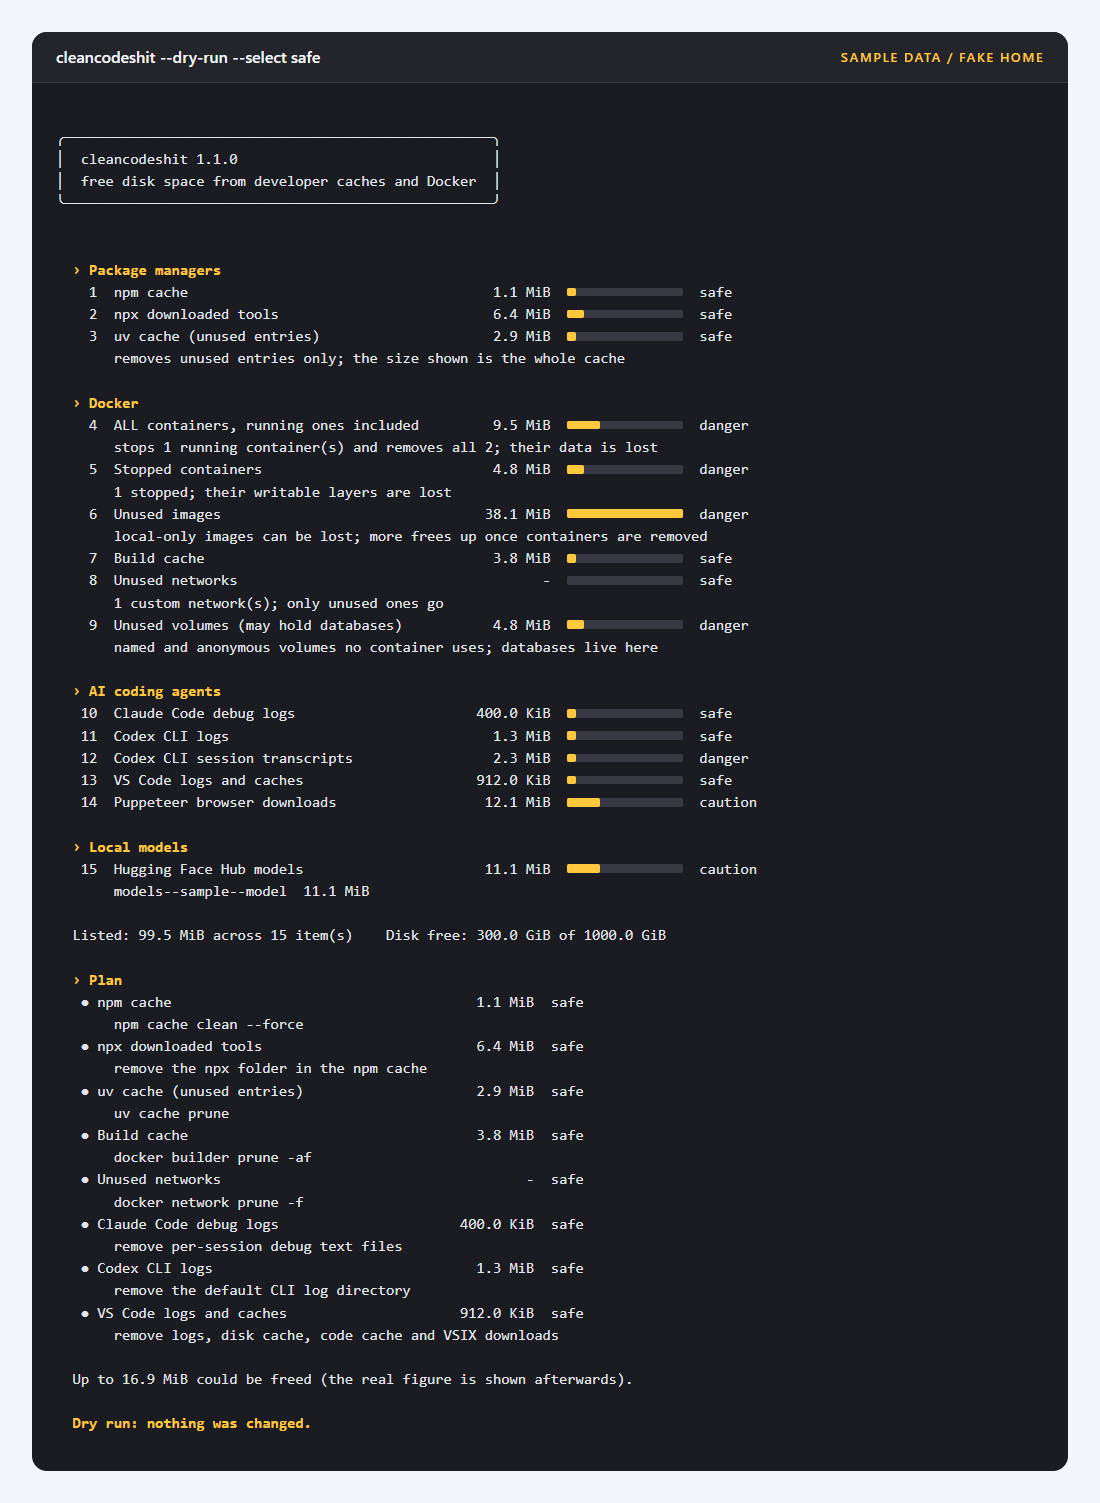
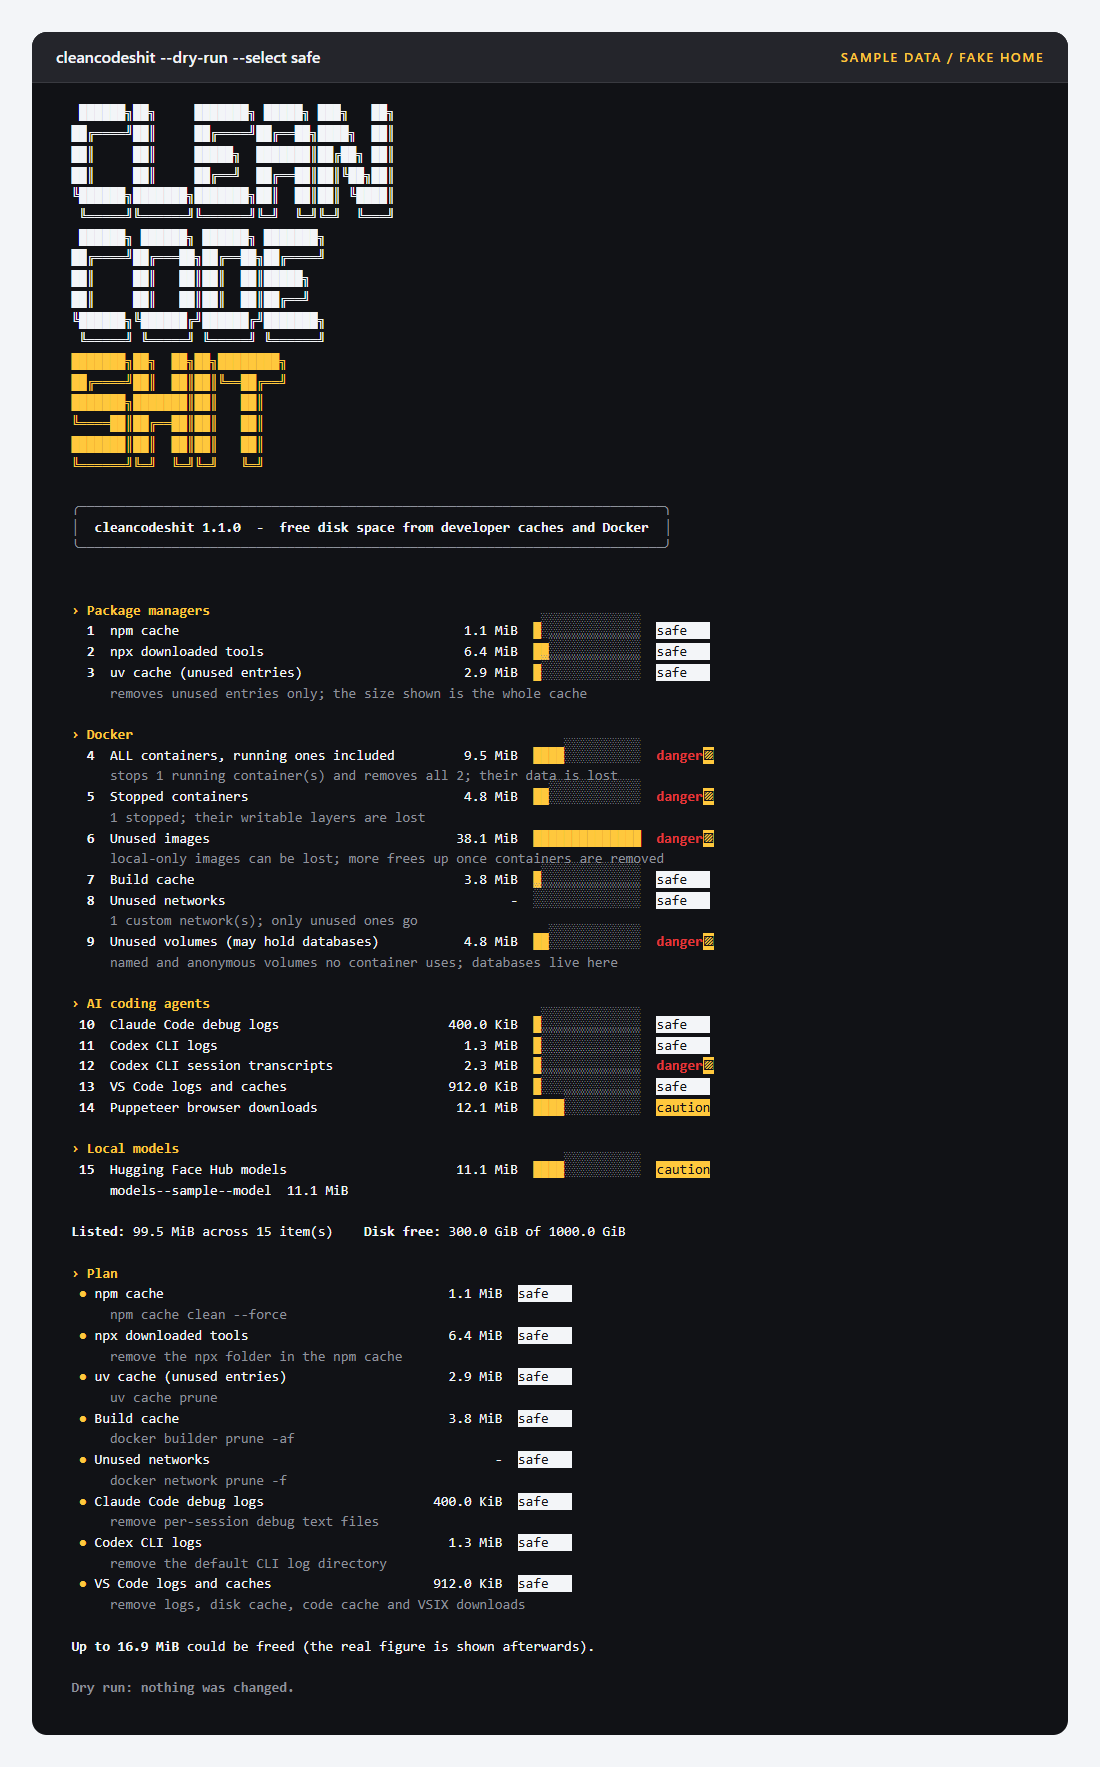
Match the CLI terminal colours to the website brand

Changed region(s): [[0.0309, 0.0, 0.9582, 1.0], [0.4636, 0.1836, 0.68, 0.2448], [0.34, 0.6733, 0.3709, 0.7039]]

diff --git a/CHANGELOG.md b/CHANGELOG.md
@@ -2,6 +2,12 @@
 
 All notable changes to Clean Code Shit are recorded here. The format follows [Keep a Changelog](https://keepachangelog.com/en/1.1.0/). This project does not use semantic versioning for its release names.
 
+## [Unreleased]
+
+### Changed
+
+- The terminal banner, risk badges, bars, prompts, and cleanup totals use the website palette in truecolor, 256-colour, and basic ANSI terminals. `NO_COLOR` and `--no-color` produce plain output.
+
 ## [1.1.0] - 2026-11-27
 
 First public release. Version 1.0.0 was a private build used for internal testing and was never published.
